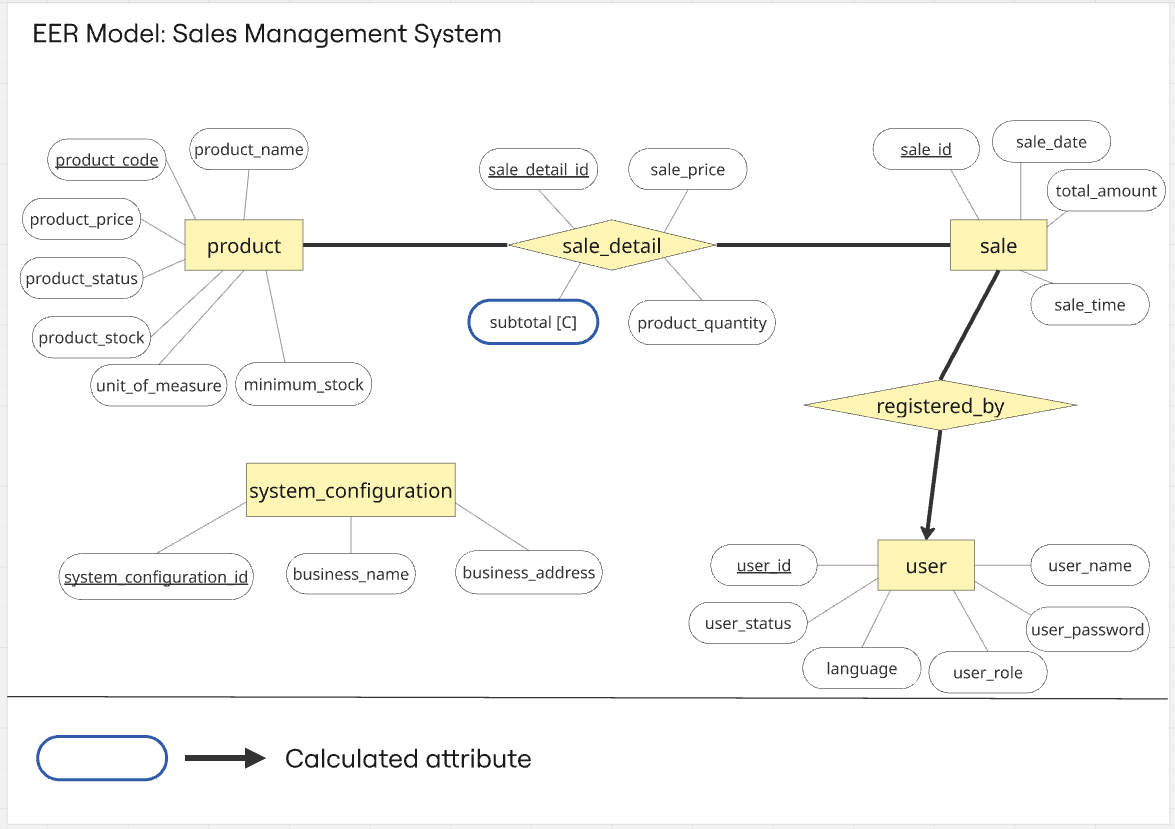
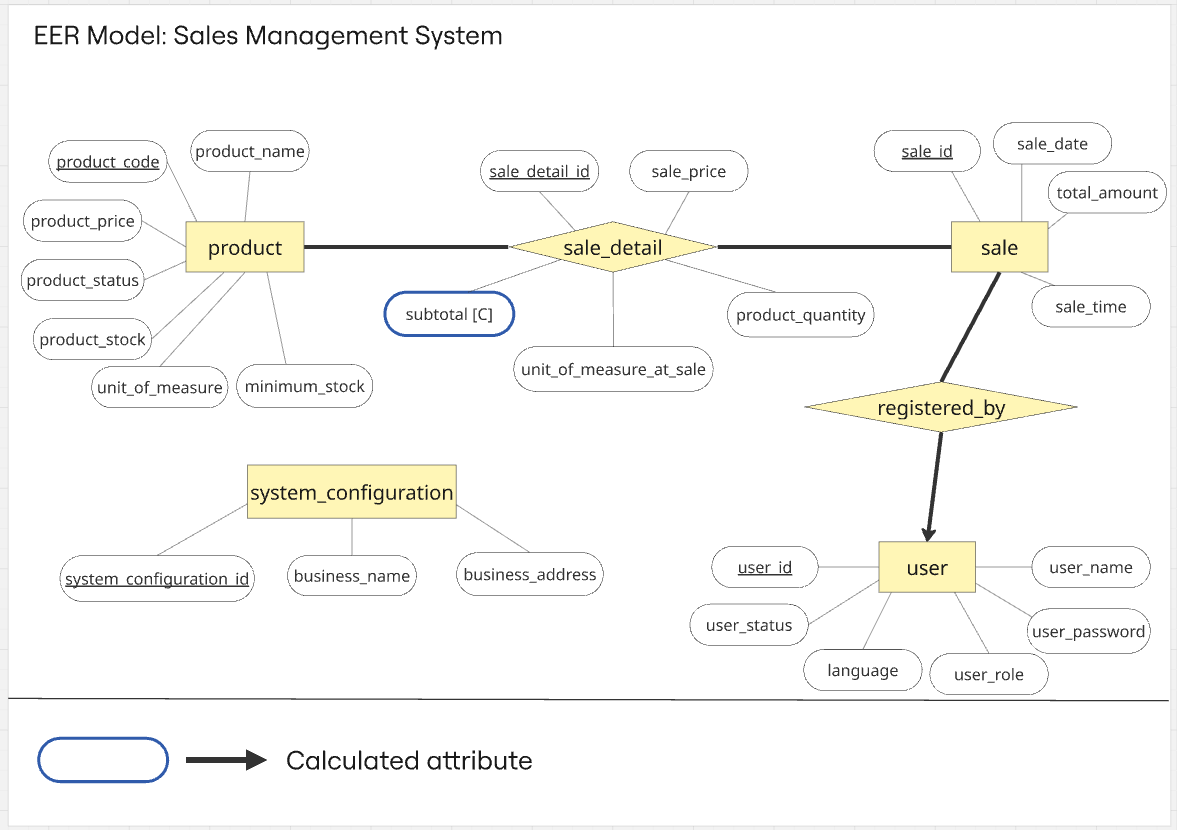
feat(docs-frontend-backend): feat: add unit of measure snapshot to sale details

diff --git a/frontend/src/components/SaleDetailView.jsx b/frontend/src/components/SaleDetailView.jsx
@@ -228,7 +228,7 @@ const SaleDetailView = () => {
                       <td className="font-mono text-sm">{item.productCode}</td>
                       <td className="font-medium">{item.productName}</td>
                       <td className="stock-cell">
-                        {item.productQuantity} <span className="unit-text">{item.unitOfMeasure?.label || ''}</span>
+                        {item.productQuantity} <span className="unit-text">{item.unitOfMeasureAtSale?.label || ''}</span>
                       </td>
                       <td>${item.salePrice?.toFixed(2) ?? '0.00'}</td>
                       <td className="subtotal-cell">${item.subtotal?.toFixed(2) ?? '0.00'}</td>

diff --git a/backend/src/main/java/com/marcoscornejos/sales_management_system/model/SaleDetail.java b/backend/src/main/java/com/marcoscornejos/sales_management_system/model/SaleDetail.java
@@ -2,11 +2,12 @@
  * Represents a line item within a sale.
  *
  * <p>Each sale detail links a product to a sale, including
- * the quantity sold, the price at the moment of the sale,
- * and the calculated subtotal.</p>
+ * the quantity sold, the unit of measure at the time of the sale,
+ * the price at the moment of the sale, and the calculated subtotal.</p>
  *
- * <p>This entity preserves historical data, ensuring that
- * price changes in products do not affect past sales.</p>
+ * <p>This entity preserves historical transactional data, ensuring that
+ * changes in product information (such as price or unit of measure)
+ * do not affect past sales records.</p>
  */
 
 package com.marcoscornejos.sales_management_system.model;
@@ -55,6 +56,16 @@ public class SaleDetail {
     @Column(name = "product_quantity")
     private BigDecimal productQuantity;
 
+    /**
+     * Unit of measure of the product at the time of the sale.
+     * This value is stored as an immutable snapshot of the product's unit of measure
+     * when the transaction is performed, ensuring historical accuracy even if the
+     * product configuration is modified later.
+     */
+    @Column(name = "unit_of_measure_at_sale")
+    @Enumerated(EnumType.STRING)
+    private UnitOfMeasure unitOfMeasureAtSale;
+
 
     /**
      * Unit price of the product at the time of the sale.
@@ -63,11 +74,12 @@ public class SaleDetail {
     @Column(name = "sale_price")
     private BigDecimal salePrice;
 
-    public SaleDetail(Product product, Sale sale, BigDecimal productQuantity, BigDecimal salePrice) {
+    public SaleDetail(Product product, Sale sale, BigDecimal productQuantity, BigDecimal salePrice, UnitOfMeasure unitOfMeasureAtSale) {
         this.product = product;
         this.sale = sale;
         this.productQuantity = productQuantity;
         this.salePrice = salePrice;
+        this.unitOfMeasureAtSale = unitOfMeasureAtSale;
     }
 
 

diff --git a/backend/src/main/java/com/marcoscornejos/sales_management_system/service/SaleService.java b/backend/src/main/java/com/marcoscornejos/sales_management_system/service/SaleService.java
@@ -330,11 +330,12 @@ public class SaleService implements ISaleService{
 
 
 
-            // Create sale detail using current product price
+            // Create sale detail using current product price and unit of measure snapshot
             SaleDetail saleDetail = new SaleDetail();
             saleDetail.setProduct(product);
             saleDetail.setProductQuantity(quantity);
             saleDetail.setSalePrice(product.getProductPrice());
+            saleDetail.setUnitOfMeasureAtSale(product.getUnitOfMeasure());
 
             saleDetails.add(saleDetail);
         }

diff --git a/backend/src/main/java/com/marcoscornejos/sales_management_system/mapper/ISaleWithDetailsResponseMapper.java b/backend/src/main/java/com/marcoscornejos/sales_management_system/mapper/ISaleWithDetailsResponseMapper.java
@@ -39,7 +39,6 @@ public interface ISaleWithDetailsResponseMapper {
      */
     @Mapping(source = "product.productCode", target = "productCode")
     @Mapping(source = "product.productName", target = "productName")
-    @Mapping(source = "product.unitOfMeasure", target = "unitOfMeasure")
     @Mapping(target = "subtotal", expression = "java(calculateSubtotal(detail))")
     SaleDetailResponseDTO toSaleDetailResponseDTO(SaleDetail detail);
 

diff --git a/backend/src/main/java/com/marcoscornejos/sales_management_system/dto/SaleDetailResponseDTO.java b/backend/src/main/java/com/marcoscornejos/sales_management_system/dto/SaleDetailResponseDTO.java
@@ -32,9 +32,9 @@ public class SaleDetailResponseDTO {
     private BigDecimal productQuantity;
 
     /**
-     * Unit of measure of the product(abbreviation).(e.g., u, kg, lt).
+     * Unit of measure of the product at the time of the sale.
      */
-    private EnumDTO unitOfMeasure;
+    private EnumDTO unitOfMeasureAtSale;
 
     /**
      * Price of the product at the time of sale.

diff --git a/docs/functional_requirements.md b/docs/functional_requirements.md
@@ -307,6 +307,7 @@ The system must allow the user to register sales made in the business, storing t
    - Associated sale  
    - Quantity sold  
    - Unit price at the time of the sale  
+   - Unit of measure at the time of the sale
    - Subtotal (calculated as quantity × unit price, not stored) 
 20. The system displays a confirmation message: "Sale successfully registered. Do you want to print the receipt?"  
 21. The user confirms receipt printing, invoking the Generate Receipt operation (RF-10).  
@@ -360,6 +361,8 @@ The system must allow the user to register sales made in the business, storing t
 - The product selection interface must only display active products with available stock greater than 0.
 - The system must exclude inactive products and products with zero stock from the product selection list.
 - The product selection interface must visually indicate products with low stock to assist the user during the sale process.
+- The unit of measure used for each product must be stored in the sale detail at the time the sale is confirmed.
+- Later changes to the product unit of measure must not affect previously registered sales.
 
 ---
 
@@ -587,7 +590,7 @@ The system must allow the user to view detailed information of a specific sale r
    - Sale time  
    - Seller username (user_name)  
    - Total sale amount  
-   - Details of each sold product: code, name, quantity along with its unit of measure, price at the time of sale, and subtotal  
+   - Details of each sold product: code, name, quantity along with the unit of measure recorded at the time of the sale, price at the time of sale, and subtotal
 
 ### Alternative Flows
 
@@ -598,7 +601,8 @@ The system must allow the user to view detailed information of a specific sale r
 ### Business Rules
 - The system must allow querying a specific sale using its identifier.  
 - The displayed information must accurately reflect the stored data of the sale and its details.  
-- The quantity of each product must be displayed together with its unit of measure to correctly represent the sale.
+- The quantity of each product must be displayed together with the unit of measure stored in the sale detail.
+- Changes made later to the product unit of measure must not affect previously registered sales.
 
 ---
 

diff --git a/docs/requirements.md b/docs/requirements.md
@@ -93,8 +93,11 @@ For each product included in a sale, the following data must be stored:
 - Associated sale  
 - Sold product  
 - Price at the time of the sale  
-- Quantity sold (according to the product’s unit of measure)  
+- Quantity sold (according to the product’s unit of measure at the time of the sale)
+- Unit of measure at the time of the sale
 - Line subtotal  
+
+The unit of measure stored in the sale detail must preserve the value used during the transaction, even if the product unit of measure is modified later.
 
 The system must allow:
 - Add a product to a sale while the sale is being registered
@@ -118,7 +121,7 @@ For each recorded sale, the system must be able to generate a purchase receipt t
 - Receipt issue time
 - Unique sale identifier
 - List of sold products
-- Quantity of each product along with its unit of measure
+- Quantity of each product along with the unit of measure recorded at the time of the sale
 - Unit price
 - Subtotal for each product
 - Total sale amount

diff --git a/docs/database_logical_model.md b/docs/database_logical_model.md
@@ -64,6 +64,7 @@ Represents the details of each sale, linking products to sales.
 - sale_detail_id (PK)
 - sale_price
 - product_quantity
+- unit_of_measure_at_sale
 - sale_id (FK → sale.sale_id)
 - product_code (FK → product.product_code)
 
